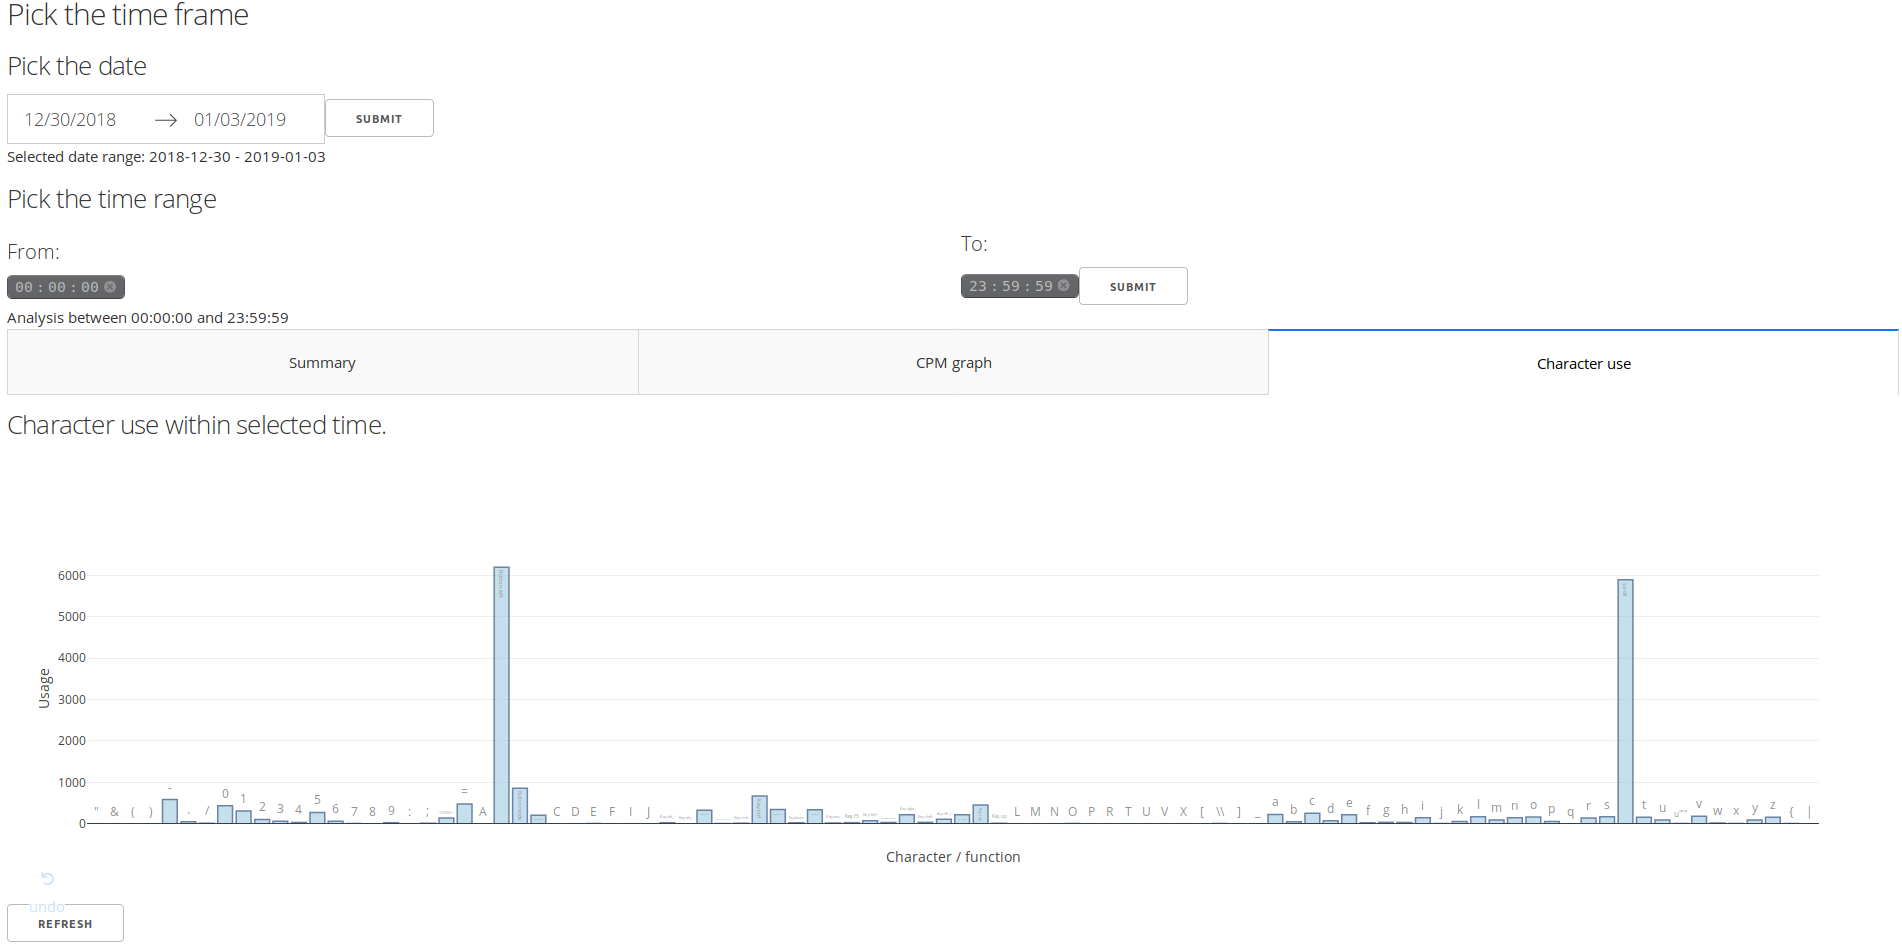
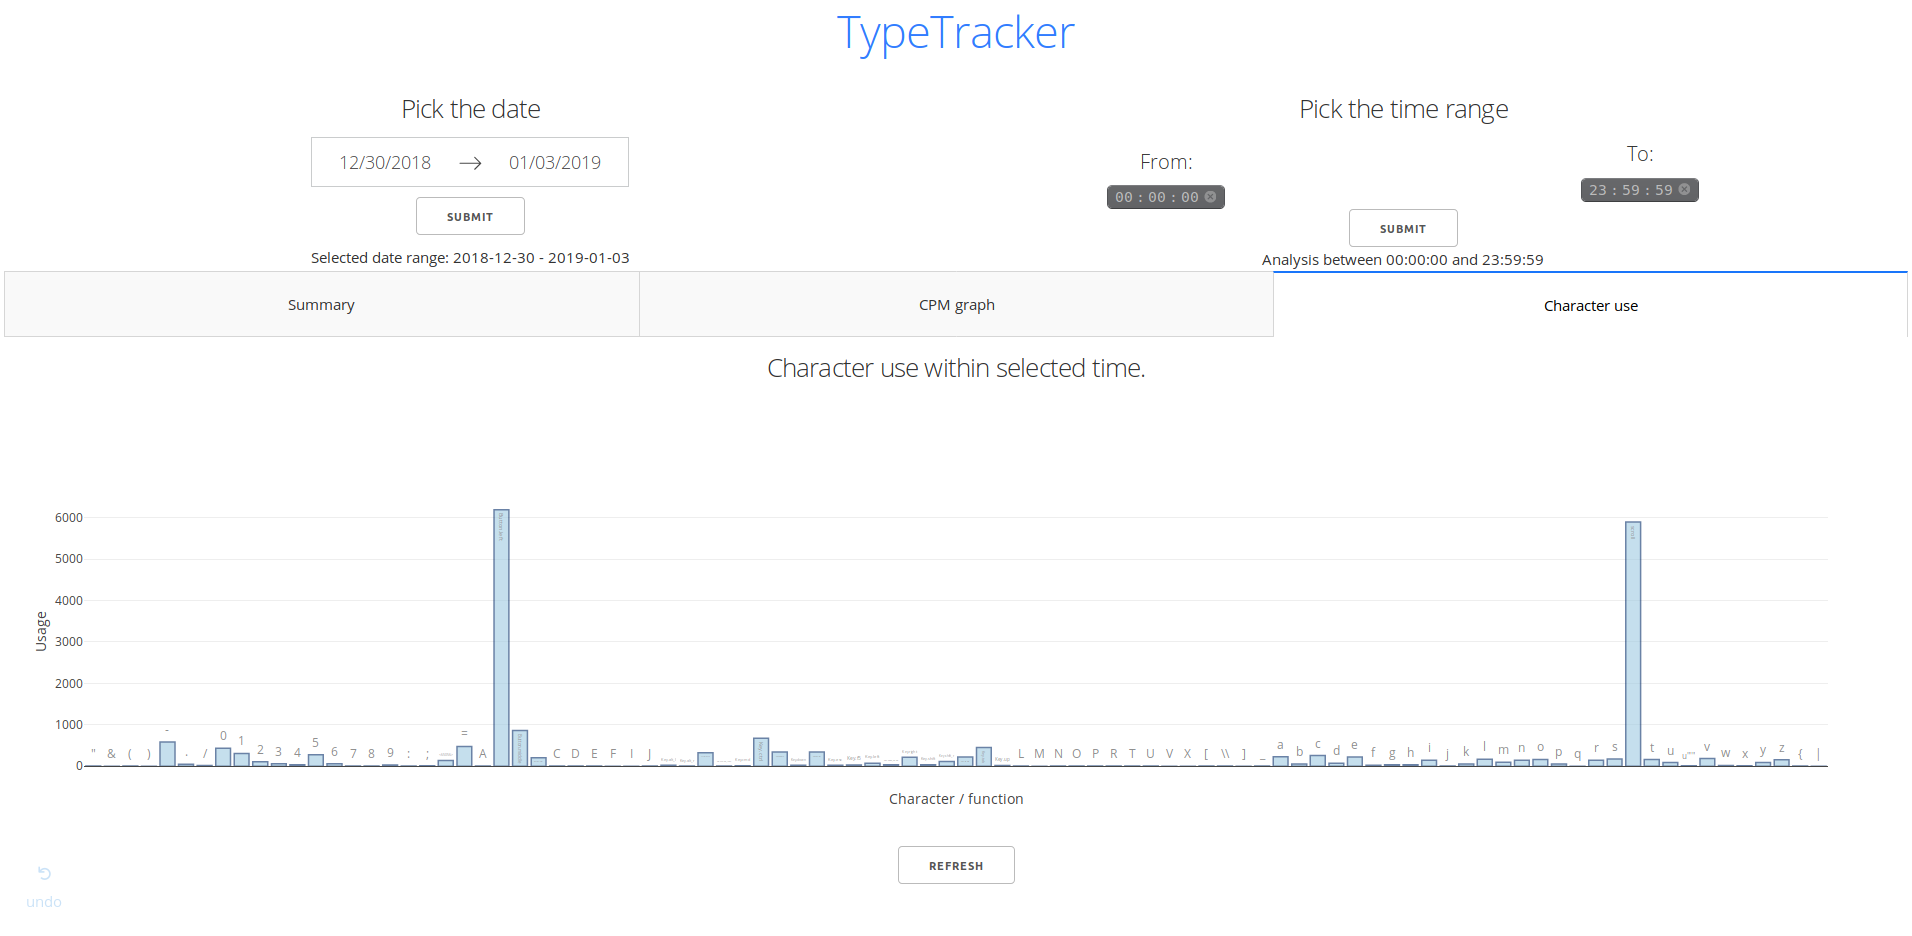
Updated layout

diff --git a/visualization_app.py b/visualization_app.py
@@ -15,10 +15,12 @@ app.config['suppress_callback_exceptions'] = True
 
 app.layout = html.Div([
     html.Div([
+        html.H1(children='TypeTracker', style={'text-align': 'center',
+                                               'font': 'helvetica',
+                                               'color': '#327DFF'}),
+
         # Date Selector
         html.Div([
-            html.H3(children='Pick the time frame'),
-
             html.H4(children='Pick the date'),
 
             dcc.DatePickerRange(
@@ -27,42 +29,49 @@ app.layout = html.Div([
                 end_date=dt.now()
             ),
 
-            html.Button(id='date-submit-button', n_clicks=0, children='Submit'),
-
-            html.Div(id='selected-date'),
-
-            html.H4(children='Pick the time range'),
-
-            # Time Selector
             html.Div([
+                html.Button(id='date-submit-button', n_clicks=0, children='Submit')
+                ], style={'padding': '10px'}),
 
-                html.H6(children='From: '),
+            html.Div(id='selected-date')
+        ], style={'width': '49%',
+                  'display': 'inline-block',
+                  'text-align': 'center',
+                  'vertical-align': 'text-top'}),
 
-                dcc.Input(
+        # Time Selector
+        html.Div([
+             html.H4(children='Pick the time range'),
+             html.Div([
+                  html.H6(children='From: '),
+
+                  dcc.Input(
                     id='time-from',
                     type='time',
                     placeholder='HH:MM:SS',
                     value='00:00:00',
                     n_submit=0
-                ),
+                  ),
 
-                html.H6(children='To: '),
+                  html.H6(children='To: '),
 
-                dcc.Input(
+                  dcc.Input(
                     id='time-to',
                     type='time',
                     placeholder='HH:MM:SS',
                     value='23:59:59',
                     n_submit=0
-                ),
+                  )], style={'columnCount': 2}),
 
-                html.Button(id='time-submit-button', n_clicks=0, children='Submit')
+             html.Button(id='time-submit-button', n_clicks=0, children='Submit'),
 
-            ], style={'columnCount': 2}),
+             html.Div(id='selected-time')
+            ], style={'width': '49%',
+                      'display': 'inline-block',
+                      'text-align': 'center',
+                      'vertical-align': 'text-top'}),
 
-            html.Div(id='selected-time')
-        ]),
-
+        # Tabs
         html.Div([
             dcc.Tabs(id="tabs", value='tab-1', children=[
                 dcc.Tab(label='Summary', value='summary-tab'),

diff --git a/tools/app_callbacks.py b/tools/app_callbacks.py
@@ -80,7 +80,7 @@ def tab_render(tab):
                     html.Div(id='device-usage-summary'),
 
                     html.Button(id='refresh', n_clicks=0, children='Refresh'),
-                ])
+                ], style={'text-align': 'center'})
 
     elif tab == 'cpm-tab':
         return html.Div([
@@ -91,7 +91,7 @@ def tab_render(tab):
                     ),
 
                     html.Button(id='refresh', n_clicks=0, children='Refresh')
-                    ])
+                    ], style={'text-align': 'center'})
 
     elif tab == 'character-use-tab':
         return html.Div([
@@ -104,4 +104,4 @@ def tab_render(tab):
                     ]),
 
                     html.Button(id='refresh', n_clicks=0, children='Refresh')
-                ])
+                ], style={'text-align': 'center'})
